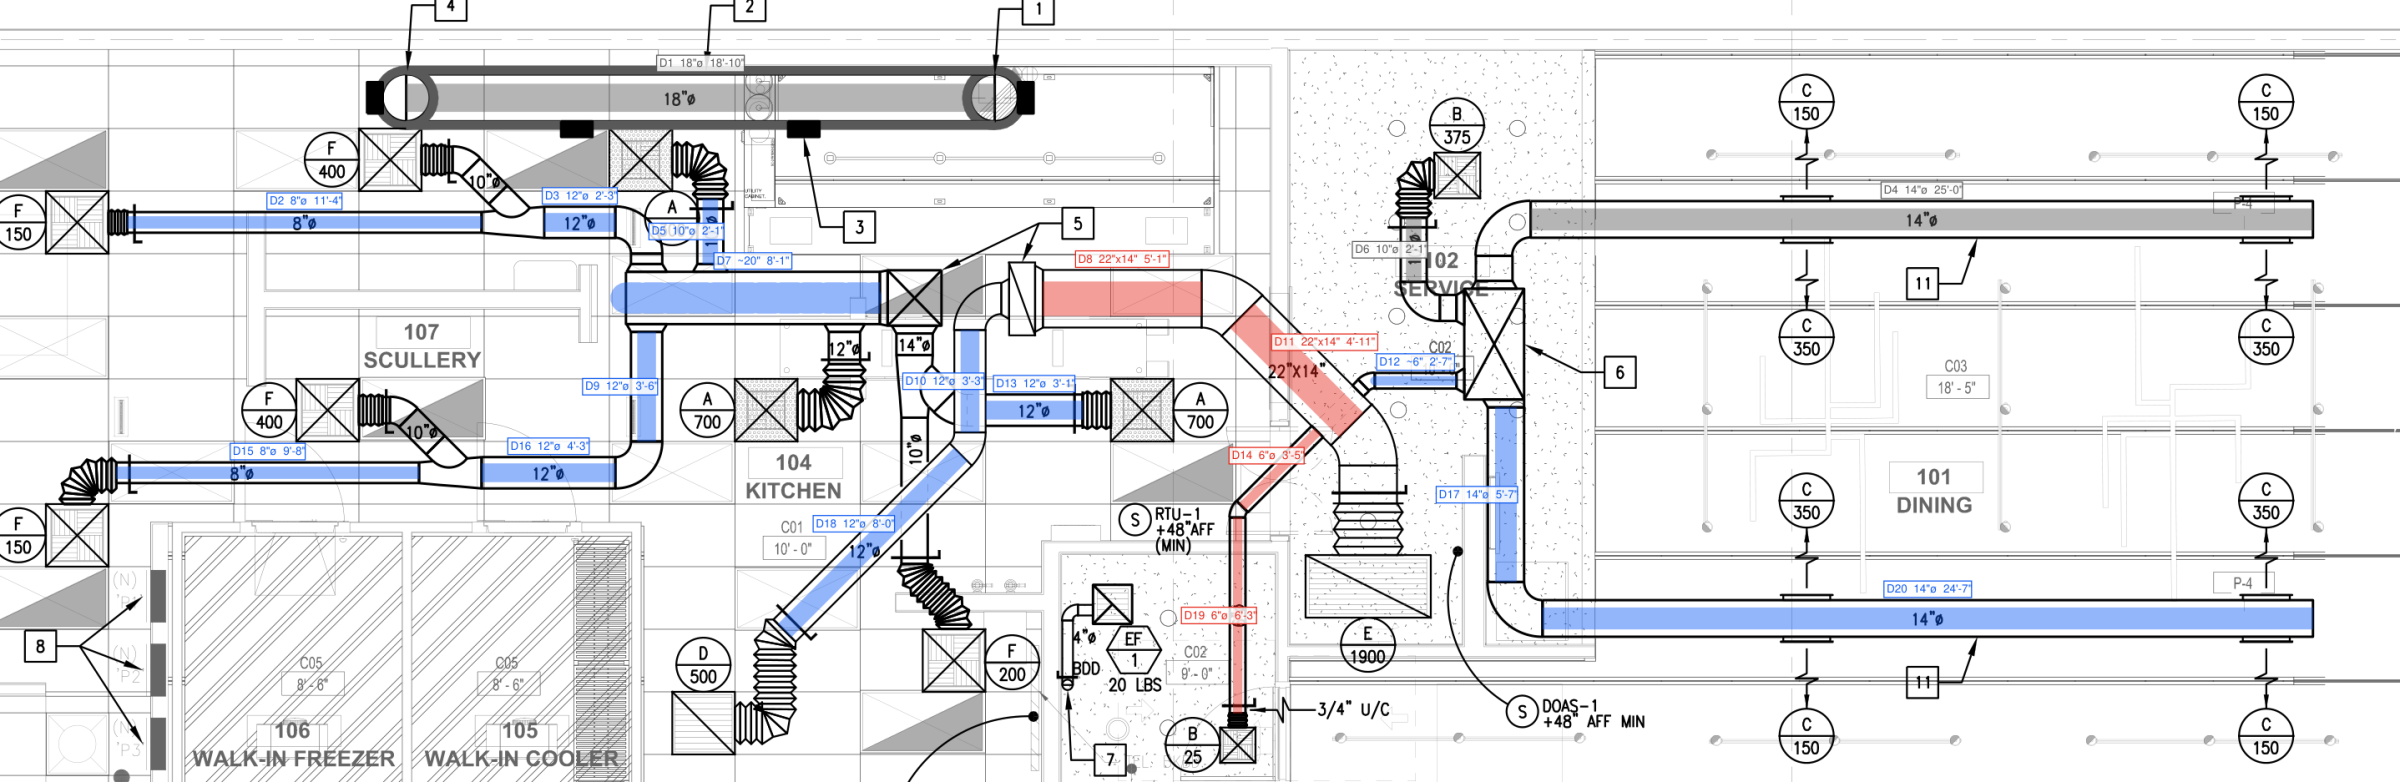
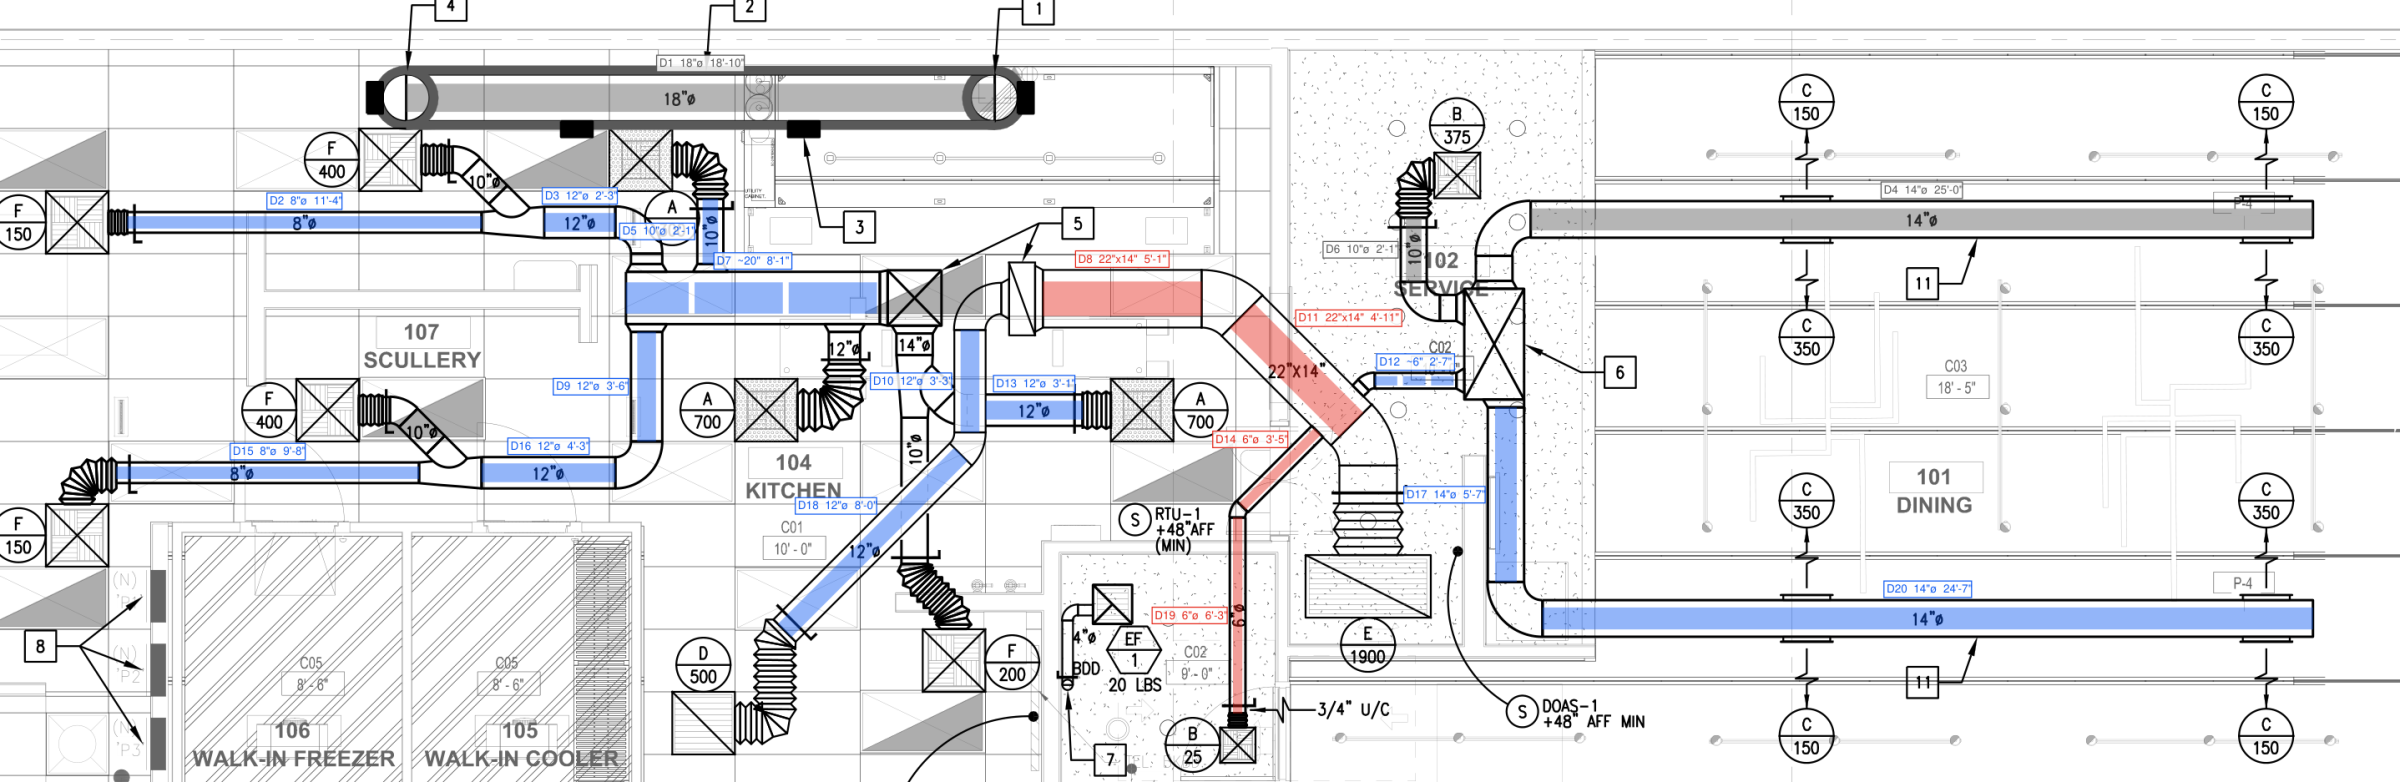
docs: list known misses, scale-dependent limits and refresh sample image

diff --git a/README.md b/README.md
@@ -7,7 +7,7 @@
 
 ![Annotated sample](docs/sample_output.png)
 
-Colour shows the system: blue is supply, red is return, grey is unclassified. Each tag reads `id · size · straight length`. A dashed line means the size was measured from the drawing, because the run has no size label.
+Colour shows the system: blue is supply, red is return, grey is unclassified. Each tag shows the run id, its size and its straight length. A dashed line means the size was measured from the drawing, because the run has no size label.
 
 ## Setup
 
@@ -82,7 +82,7 @@ The sample is a Bluebeam-flattened AutoCAD export. Its duct walls are exact vect
 
 ## Results on the sample
 
-`samples/testset2.pdf` (sheet M2.0) takes about 15 s on a laptop CPU, most of it OCR.
+`samples/testset2.pdf` (sheet M2.0) takes about 14 s on a laptop CPU, most of it OCR.
 
 - **Scale:** inferred as 1/4"=1'-0".
 - **Runs:** 20 in total:
@@ -90,8 +90,12 @@ The sample is a Bluebeam-flattened AutoCAD export. Its duct walls are exact vect
   - 5 that inherited a size from a connected run;
   - 2 kept with a measured width: the 20" kitchen trunk and a 6" connector, neither of which carries a label.
 - **Size labels:** all 13 labels on detected runs are read and matched correctly. Labels on elbows, flex and short collars are not used, because those pieces are not measured.
-- **Systems:** 13 supply, 4 return, 3 unclassified. The 18"ø grease duct is unclassified, which is correct: it is kitchen exhaust. Its length is 18'-10".
+- **Systems:** 13 supply, 4 return, 3 unclassified. The 18"ø grease duct (18'-10") is kitchen exhaust. It stays unclassified because no supply or return symbol touches it; the tool has no exhaust class.
 - **Nothing is marked** in the title block, the notes or the architectural background.
+- **Missed runs**, compared with the reference annotation:
+  - The 10"ø drop under the RTU-1 supply riser, about 4'-8". The 12"ø crossover splits its walls into pieces too short to pair, so its label (read correctly) has no run to attach to.
+  - The 4"ø restroom exhaust. OCR merges its label with the adjacent "BDD" text, so the run is never confirmed.
+  - The short 14"ø and 12"ø collars at tees.
 
 ## Limitations
 
@@ -101,9 +105,11 @@ The sample is a Bluebeam-flattened AutoCAD export. Its duct walls are exact vect
 - **Label placement.** A label must sit inside its duct, or within about 12 pt of it with an explicit size mark. Labels at the end of a long leader line are not associated.
 - **Rectangular ducts.** For `22"x14"` only the plan dimension can be checked against geometry; the depth comes from the label alone.
 - **Supply/return is a heuristic.** It depends on symbol conventions, not the air-device schedule.
-  - On the sample, two runs are left unclassified: the upper 14" dining duct and a 10" riser. Their connecting stubs are too short to be detected as runs.
+  - On the sample, two runs are left unclassified: the upper 14" dining duct and the 10" branch from grille B/375. The stubs that connect them to the DOAS-1 box are too short to be detected as runs.
   - The 12"ø diagonal to grille D/500 is marked supply because it connects to the supply network, although that grille's single-diagonal symbol suggests return.
   - Reliable classification needs the schedule sheet or layers that encode the system.
+- **Thresholds are in paper points.** Wall pairing accepts gaps of 4–80 pt: about 2.7"–53" at 1/4"=1'-0", but only 5.3"–107" at 1/8". Sheets at unusual scales may need the `pair_walls` limits changed. All thresholds were tuned on this one sheet.
+- **Memory.** Peak memory is about 1.2 GB, from the full-sheet 300 dpi render and its component maps. Rendering only the regions around candidate runs would cut it.
 - **Other gaps:** dashed (hidden or existing) ductwork is not detected, and one page is processed per run.
 
 ## Tests
@@ -117,8 +123,10 @@ uv run pytest -m "not slow" # skip the full OCR run on the sample
   - wall pairing on synthetic geometry: transitions, adjacent ducts, flex ribs, liners, diagonals;
   - run merging and connectivity;
   - label and scale parsing, including real OCR strings from the sample;
+  - label assignment and run growth;
   - symbol classification.
-- `tests/test_sample.py` checks the known runs on the sample drawing and the full takeoff.
+- `tests/test_pipeline.py` runs a synthetic drawing with a real text layer through detection and every output, without OCR.
+- `tests/test_sample.py` checks the known runs on the sample drawing, and pins the full takeoff: run counts by source and by system.
 
 ## Dependencies
 
